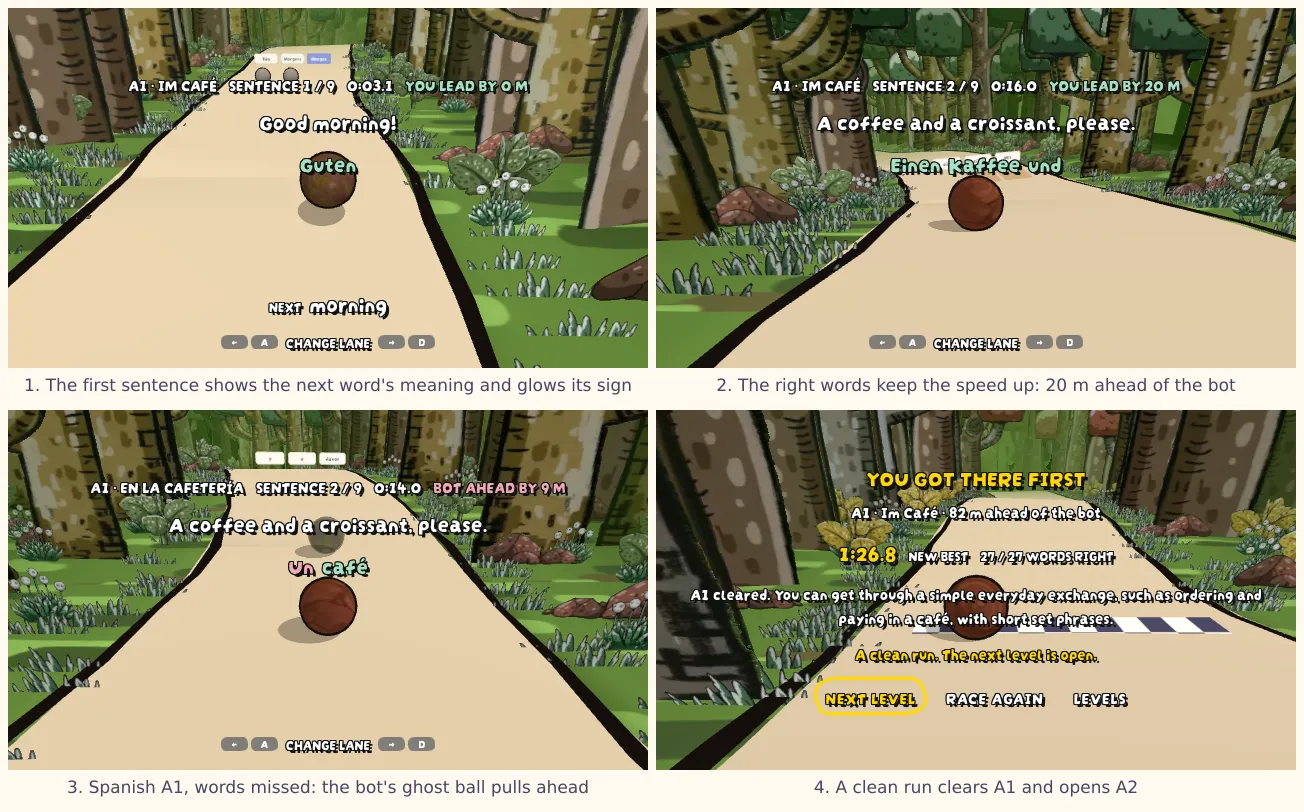
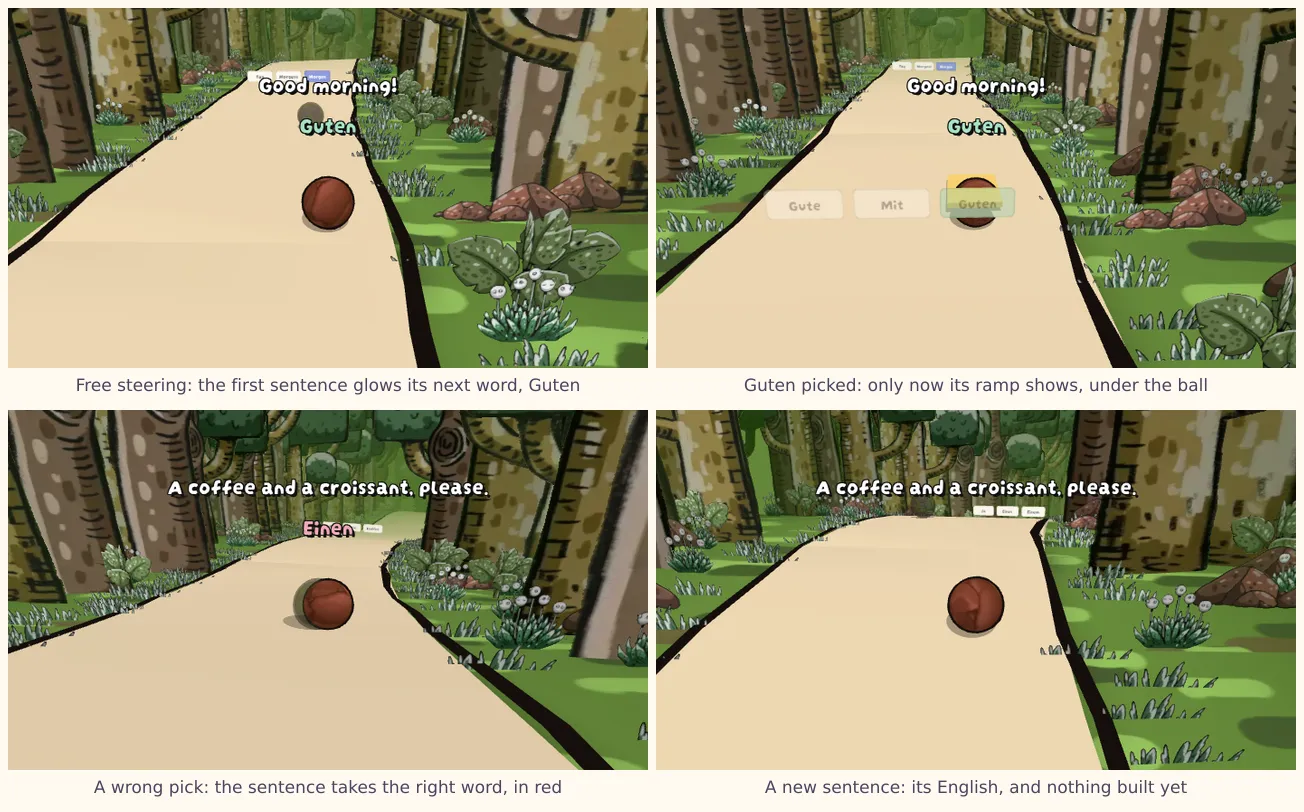
docs: update the Word Runner guide for the lobby, steering and end screen
Claude-Session: https://claude.ai/code/session_018cy98BQB6Rocr9PpEVo7ZU

diff --git a/documentation/docs/guides/word-runner.md b/documentation/docs/guides/word-runner.md
@@ -4,18 +4,19 @@ sidebar_position: 25
 
 # Word Runner: racing a text, one word at a time
 
-Word Runner is a three-lane race at `/games/WordRunner`, run on Rock Runner's course: the same
-seeded track, forest, drawn edges and haze. The player is a ball. Across the track, one gate per
-word, float three words in another language, and the player rolls through the one that comes
-next in the text. A bot races alongside, and the first ball over the finish line wins.
+Word Runner is a race at `/games/WordRunner`, run on Rock Runner's course: the same seeded
+track, forest, drawn edges and haze. The player is a ball. Across the track, one gate per word,
+float three words in another language, and the player rolls through the one that comes next in
+the text. A bot races alongside, or everyone else in the room, and the first ball over the
+finish line wins.
 
 :::note Source files
 `src/views/Games/WordRunner/levels/`, `src/views/Games/WordRunner/types.ts`,
 `src/views/Games/WordRunner/config.ts`, `src/views/Games/WordRunner/sequence/`,
-`src/views/Games/WordRunner/runner/`
+`src/views/Games/WordRunner/runner/`, `src/views/Games/WordRunner/game/`
 :::
 
-![Four moments of a race: the first German sentence with its hint, the player 20 m ahead after taking the right words, a Spanish race with missed words where the bot's ghost ball pulls ahead, and the end screen of a clean run](/img/word-runner/race.webp)
+![Four moments of a German race: the first sentence glowing its next word, the ramp showing under the ball once that word is picked, a wrong pick marked red in the sentence being built, and a new sentence with nothing built yet](/img/word-runner/race.webp)
 
 ## Levels
 
@@ -33,59 +34,75 @@ language, so a level is equally hard whichever language it is run in.
 | C1    | Discussing remote work                 | 45–49 |
 | C2    | Reflecting on language and thought     | 43–49 |
 
-A first visit opens German, and after that the start screen opens on the language picked last.
-Only A1 is open at first: winning a level's race opens the next one in that language.
+The race is set up in the lobby, which remembers every choice for the next visit:
 
-![The start screen: the language picker with German selected, A1 won and A2 open, and the four levels after it still closed](/img/word-runner/start.webp)
+| Choice     | Options                                                                    |
+| ---------- | -------------------------------------------------------------------------- |
+| Language   | German, Spanish, French or Italian. A first visit opens German             |
+| Level      | the levels open in that language: only A1 at first, and winning opens more |
+| Difficulty | the run speed of every ball: Easy 18, Normal 24, Difficult 30, Extreme 35  |
+| Steering   | Free, rolling under physics anywhere across the track, or Lanes            |
+
+![The lobby: name and colour, then the Language, Level, Difficulty and Steering dropdowns above the Start button](/img/word-runner/start.webp)
 
 ## How a race works
 
-The level is run once, from its first word to its last. The English of the current sentence
-stands at the top of the screen, and the words already passed build the sentence underneath it.
+The level is run once, from its first word to its last. Only two lines sit over the course: the
+English of the current sentence, and underneath it the sentence the words passed so far build, a
+wrong pick shown in red with the word it should have been.
 The first sentence glows the right word from afar and shows its meaning, the second glows it
 only close to the gate, and from the third on the text is the test.
 
 - **Each word keeps its lane.** The lane comes from a seed made from the level id, so it is the
   same on every attempt and the route can be learned as well as the text. Where a gate opens onto
   a bend, its word takes the inside lane. The same lane never comes up three times in a row.
-- **The right word is the faster route, and a wrong one slows the ball.** Just in front of each word
-  lies what its lanes run over:
+- **The right word is the faster route, and a wrong one slows the ball.** Just past each word
+  lies what its lanes run over, hidden until the word is picked and then shown in the lane taken
+  alone, so the route never gives the answer away:
 
 | Feature | Right lane                         | Other lanes                        |
 | ------- | ---------------------------------- | ---------------------------------- |
-| Ramp    | launches the ball and speeds it up | slows it down                      |
-| Rocks   | clear                              | rocks that make the ball stumble   |
+| Ramp    | launches the ball and speeds it up | gravel that slows it down          |
+| Rocks   | clear                              | a rock that makes the ball stumble |
 | Bend    | the inside line, at full speed     | run wide onto gravel and slow down |
 
 - **The bot plays by the same rules.** It takes the right word at a rate set for each level,
   from 60% at A1 to 80% at C2, and its ramps, rocks and gravel speed it up and slow it down
   exactly as they do the player. A player who reads the text beats it; one who guesses does not.
 - **Each effect wears off** back to full speed within about a second and a half.
+- **With free steering the ball is a real body**, with Rock Runner's rock handling: it is pushed
+  along the track up to the difficulty's speed, gathers more downhill and keeps the line it is
+  put on. A word counts in the lane nearest the ball as it goes through. A ramp also throws the
+  ball into the air, and a slowing lane takes its speed away at once.
 
-## The feedback at the end
+## The end screen
 
-The end screen says who got there first and by how much, the time against the level's best (the fastest race won on it),
-and how many words were right. Then it gives:
+From the top: a small line saying whether the next level is now open, the result ("Level
+complete", or who got there first), and the time against the level's best (the fastest race won
+on it), the words right and the margin. Under it, every sentence of the text as the player picked
+it, with its English: a wrong word is struck through in red with the right one beside it in green.
+The buttons come last.
 
-- **What the level shows.** A won race clears the level and says what clearing it means, such
-  as "You can handle a routine task such as buying a ticket". A lost one says the race has to be
-  won to open the next level.
-- **One line of advice**, from how the race went: a clean run, a win with mistakes to go over,
-  a close loss, or a loss to read up on.
-- **The words to go over**: each missed word with its meaning and the word taken instead.
-- **The whole text with its English**, after a lost race.
+![The end screen of a won race: next level unlocked, level complete, the time and margin, and the text as picked with the wrong words struck through and corrected](/img/word-runner/summary.webp)
 
-![The end screen after a lost race: the bot's margin, the score, the words to go over and the text with its translation](/img/word-runner/summary.webp)
+## Racing a room
+
+Anyone joining the lobby's room races too, in place of the bot, each ball a ghost in its player's
+colour. The host picks the level and the difficulty, and the race starts once everyone has loaded
+the course, or after fifteen seconds, so a slow device cannot hold the room at the line. At the end
+only the host chooses what comes next.
 
 ## Playing
 
-| Input    | Change lane                                                               |
+| Input    | Steer                                                                     |
 | -------- | ------------------------------------------------------------------------- |
 | Keyboard | Left and right arrows, or A and D                                         |
 | Gamepad  | Left stick or D-pad                                                       |
 | Touch    | The arrow buttons in the bottom corners, a swipe, or a tap on either side |
 
-The Config panel sets the speed of both balls.
+With free steering the ball turns for as long as a key or button is held; with lanes, each press
+moves it one lane. The Config panel's speed slider starts at the difficulty's speed and tunes it
+for every ball.
 
 ## Adding a language
 
